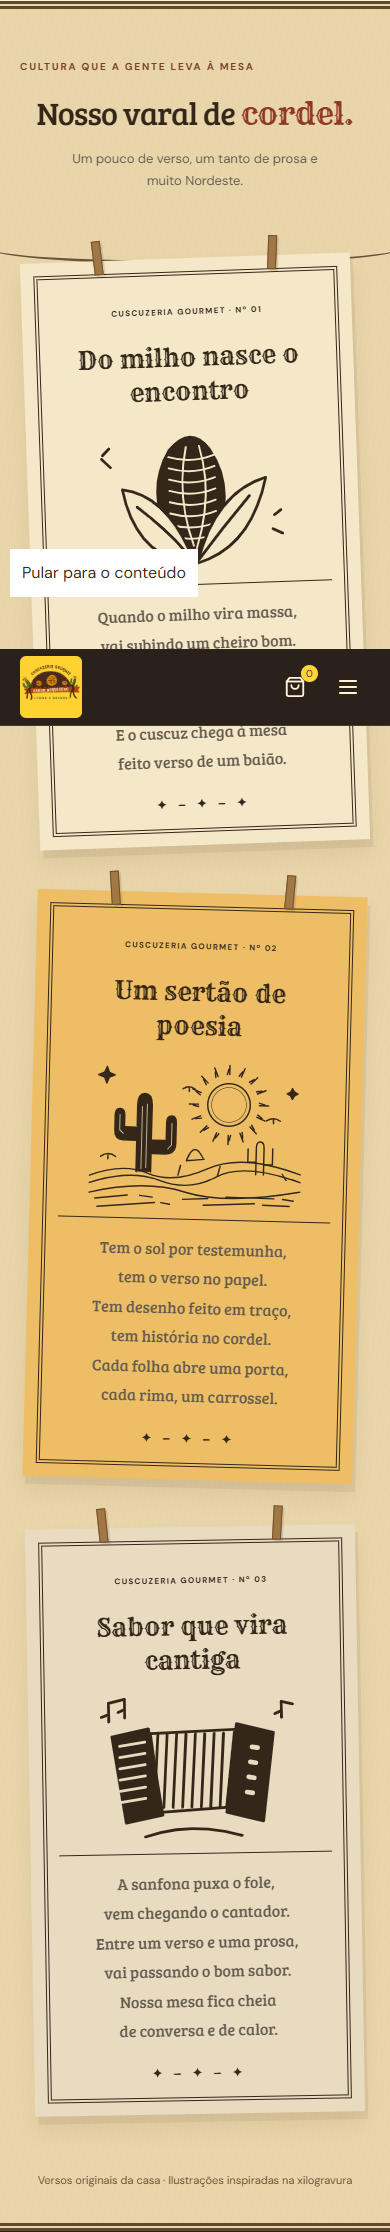
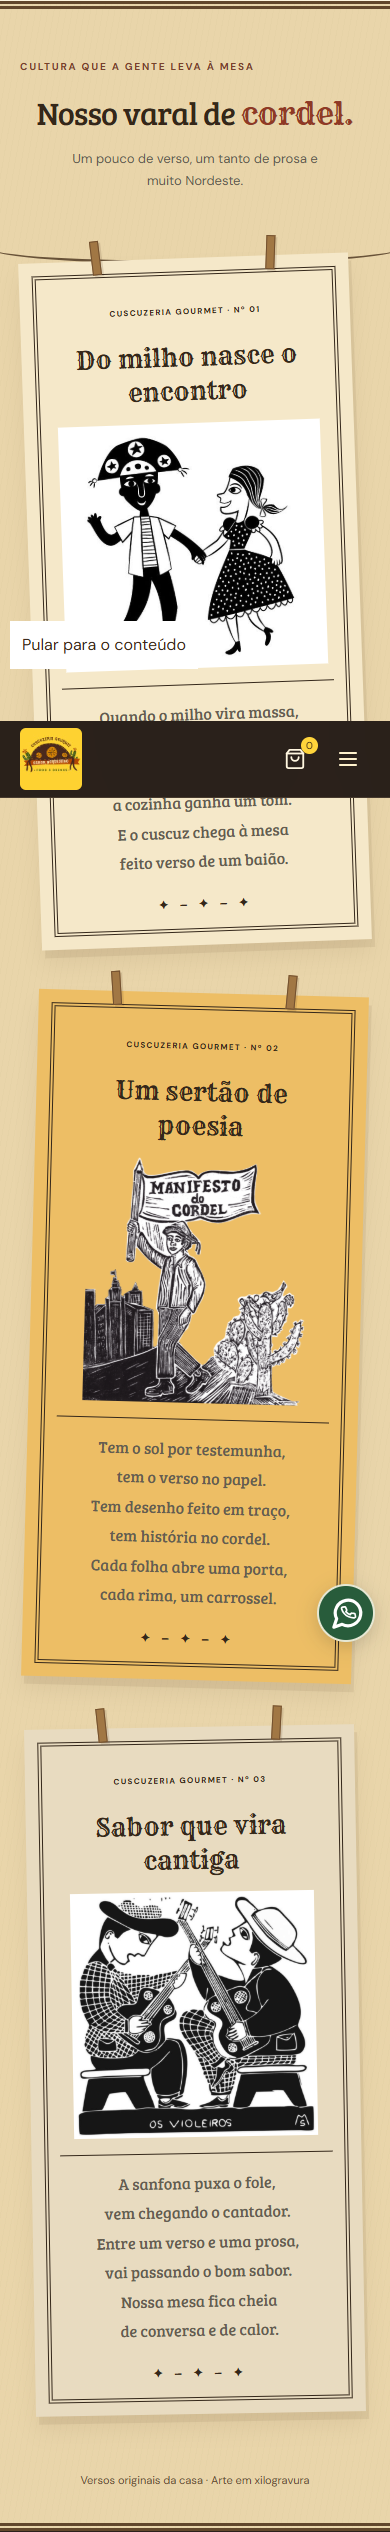
Update Site source

diff --git a/src/components/ui/CordelGallery.tsx b/src/components/ui/CordelGallery.tsx
@@ -2,33 +2,6 @@ import { copy } from "../../config/content";
 import entries from "../../config/cordel.json" with { type: "json" };
 import { cordelSchema } from "../../config/schema";
 const poems = cordelSchema.parse(entries);
-import { SertaoArt } from "./SertaoArt";
-
-function Woodcut({ kind }: { kind: "corn" | "music" }) {
-  return (
-    <svg viewBox="0 0 280 180" fill="none" aria-hidden="true" focusable="false">
-      <g stroke="currentColor" strokeWidth="3" strokeLinecap="round" strokeLinejoin="round">
-        {kind === "corn" ? <>
-          <path d="M140 158C105 131 89 81 116 37Q140 10 159 37C185 79 174 126 140 158Z" fill="currentColor" />
-          {Array.from({ length: 8 }, (_, i) => <path key={i} d={"M115 " + (44+i*12) + "q25 8 49-1"} stroke="var(--cordel-paper)" strokeWidth="2" />)}
-          <path d="M134 34q-12 53 5 105m9-106q14 52-6 109" stroke="var(--cordel-paper)" strokeWidth="2" />
-          <path d="M140 160Q77 150 65 77q50 8 75 83ZM142 158q58-15 76-89-54 14-76 89Z" fill="var(--cordel-paper)" />
-          <path d="M80 96q38 31 58 60m62-68q-30 33-56 66M44 44l9 9m-1-20-7 7m179 84 10 5m-8-20 7-5" />
-        </> : <>
-          <path d="m53 55 39-8 14 92-39 8zM186 43l39 10-12 94-39-10z" fill="currentColor" />
-          <path d="m94 52 90-3-10 83-70 4z" />
-          {Array.from({ length: 8 }, (_, i) => <path key={i} d={"m"+(102+i*10)+" 53-5 78"} />)}
-          {Array.from({ length: 6 }, (_, i) => <path key={i} d={"m61 "+(65+i*12)+" 27-4"} stroke="var(--cordel-paper)" />)}
-          <path d="m202 68 6 1m-8 15 6 1m-8 15 6 1m-8 15 6 1" stroke="var(--cordel-paper)" strokeWidth="5" />
-          <path d="M50 39V19l17-4v20m-17-4-8 3m25-8-7 3M234 37V20l12 3m-12 7-7 3M87 162q48-16 103 0" />
-        </>}
-      </g>
-    </svg>
-  );
-}
-
-
-
 export function CordelGallery() {
   return (
     <section className="cordel-gallery" aria-labelledby="cordel-title">
@@ -44,7 +17,7 @@ export function CordelGallery() {
               <div className="cordel-booklet-frame">
                 <span className="cordel-edition">{copy.CordelGallery.editionLabel}{poem.number}</span>
                 <h3>{poem.title}</h3>
-                <div className="cordel-print">{poem.kind === "landscape" ? <SertaoArt /> : <Woodcut kind={poem.kind === "corn" ? "corn" : "music"} />}</div>
+                <div className="cordel-print"><img src={poem.image.src} alt={poem.image.alt} width={poem.image.width} height={poem.image.height} loading="lazy" decoding="async" /></div>
                 <p className="cordel-verse">{poem.lines.map(line => <span key={line}>{line}</span>)}</p>
                 <span className="cordel-booklet-mark" aria-hidden="true">{copy.CordelGallery.ornament}</span>
               </div>

diff --git a/src/config/schema.ts b/src/config/schema.ts
@@ -19,7 +19,7 @@ export const siteSchema = z.object({
  routes:z.object({home:z.literal('/'),menu:route,cart:route,story:route,contact:route}).refine(v=>new Set(Object.values(v)).size===Object.values(v).length, 'Routes must be unique'),
  sections:z.object({menuId:z.string().regex(/^[a-z][a-z0-9-]*$/),mainId:z.string().regex(/^[a-z][a-z0-9-]*$/)})
 }).refine(v=>new Set(v.navigation.map(n=>n.id)).size===v.navigation.length,'Navigation IDs must be unique');
-export const cordelSchema = z.array(z.object({title:text,number:text,kind:z.enum(['corn','landscape','music']),lines:z.array(text).min(1)})).refine(v=>new Set(v.map(p=>p.number)).size===v.length,'Cordel edition numbers must be unique');
+export const cordelSchema = z.array(z.object({title:text,number:text,kind:z.enum(['corn','landscape','music']),image:z.object({src:asset,alt:text,width:positive,height:positive}),lines:z.array(text).min(1)})).refine(v=>new Set(v.map(p=>p.number)).size===v.length,'Cordel edition numbers must be unique');
 
 export const themeSchema = z.object({
  colors: z.record(z.string().regex(/^[a-zA-Z][a-zA-Z0-9]*$/), z.string().regex(/^#[0-9a-f]{3,8}$/i)),

diff --git a/tests/interface.spec.ts b/tests/interface.spec.ts
@@ -144,7 +144,13 @@ test("configured routes, metadata, theme, and cordel are rendered", async ({page
  expect(structuredData.telephone).toBe('+'+site.restaurant.phone);
  await expect(page.locator('link[rel="icon"][type="image/svg+xml"]')).toHaveAttribute('href',site.branding.favicon);
  await expect(page.locator('.cordel-booklet')).toHaveCount(site.features.cordel ? poems.length : 0);
- if(site.features.cordel) for(const poem of poems)await expect(page.getByRole('heading',{name:poem.title,exact:true})).toBeVisible();
+ if(site.features.cordel) for(const poem of poems) {
+  const artwork=page.getByRole('img',{name:poem.image.alt,exact:true});
+  await artwork.scrollIntoViewIfNeeded();
+  await expect(artwork).toHaveAttribute('src',poem.image.src);
+  await expect.poll(()=>artwork.evaluate((img: HTMLImageElement)=>img.complete && img.naturalWidth>0)).toBe(true);
+  await expect(artwork).toHaveCSS('object-fit','contain');
+ }
  const button=page.locator('.header-actions .ifood-button');
  await button.hover();
  const hex=theme.colors.ifoodRed.slice(1);

diff --git a/src/styles/nordeste.css b/src/styles/nordeste.css
@@ -1417,3 +1417,8 @@ footer {
   .cordel-verse { font-size: 16px; }
   .cordel-colophon { line-height: 1.6; }
 }
+
+/* Preserve the complete supplied artwork, including signatures. */
+.cordel-print { display: block; height: 270px; padding: 8px 0 16px; }
+.cordel-print img { display: block; width: 100%; height: 100%; object-fit: contain; }
+@media (min-width: 641px) and (max-width: 900px) { .cordel-print { height: 170px; } }

diff --git a/docs/CONFIGURATION.md b/docs/CONFIGURATION.md
@@ -59,3 +59,5 @@ Schema validation rejects malformed URLs, duplicate routes/navigation IDs, inval
 Push the reviewed changes to GitHub and deploy the new production build. GitHub source updates alone do not update a hosted site. See [DEPLOYMENT.md](DEPLOYMENT.md).
 
 Use `npm run check` to run the complete sequence, or `npm run test:e2e` for browser tests only. Existing product IDs are stored explicitly in `catalog.json`: reordering products does not change cart associations. Add a unique ID for each new product, keep `sourcePage` within the configured menu pages, and use an existing `categoryId`. Invalid catalog references and cordel definitions also fail Vite startup/build.
+
+Cordel booklets use the supplied raster artwork. Each entry requires an `image` object with `src`, descriptive `alt`, and original `width`/`height`. Images use `object-fit: contain` to preserve the entire artwork. The `kind` field selects the existing booklet paper style.

diff --git a/docs/SOURCES.md b/docs/SOURCES.md
@@ -40,3 +40,7 @@ The owner confirmed delivery through [the official iFood store](https://www.ifoo
 - Obtain suitable-resolution food photographs. The original logo is already in use; a larger file is optional for future print applications.
 - Obtain the restaurant's actual history and approval of the copy and adapted identity.
 - Confirm fine details using a high-resolution PDF before commercial use because the source thumbnails have limited resolution. All displayed prices were legible during visual verification.
+
+## Cordel gallery artwork update
+
+The owner supplied three images in `public/images/`: `xilografura nordestina casal.jpg`, `manifesto-1.png`, and `xilografura os violeiros.jpg`. These replace the generated SVG illustrations in the three cordel booklets. Original files, aspect ratios, lettering, and visible signatures are preserved. Paths, alternative text, and dimensions are configured in `src/config/cordel.json`.
